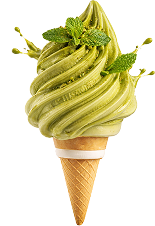
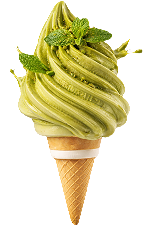
Enhance layout and responsiveness of IceGrid and IcePreview components. Change image of lavendel and matcha ice cream

diff --git a/src/components/ice/IcePreview.jsx b/src/components/ice/IcePreview.jsx
@@ -3,14 +3,14 @@ import iceData from "../../data/iceData.json";
 
 function IcePreview() {
     return (
-        <section className="flex flex-col items-center gap-8 mb-20">
+        <section 
+         className="flex flex-col items-center gap-8 mb-20 w-full max-w-7xl mx-auto px-6 "
+        >
             <h2 className="font-headline text-3xl text-[#CC1E36] text-center ">
                 Soft Serve, Hard Crush</h2>
             <div 
             className="
-             grid grid-cols-3
-             justify-evenly items-center
-             py-6 px-10 w-full min-h-110 max-w-7xl
+             grid grid-cols-1 md:grid-cols-3 gap-6 w-full py-6
              bg-[#f5e7e4] rounded-4xl shadow-[4px_4px_4px_rgba(0,0,0,0.25)]">
 
                 {iceData
@@ -21,11 +21,11 @@ function IcePreview() {
                      key={ice.slug} 
                      className="flex flex-col items-center gap-2"
                     >
-                        <div className="w-full h-80 flex items-center justify-center">
-                            <img src={ice.image} alt="" className="h-72 object-contain hover:scale-110
+                        <div className="w-full sm:h-48 md:h-80 flex items-center justify-center">
+                            <img src={ice.image} alt="" className="h-full object-contain hover:scale-110
                             transition-transform duration-300" />
                         </div>
-                        <h4 className="text-xl tracking-widest text-gray-700">{ice.name}</h4>
+                        <h4 className="sm:text-md md:text-xl tracking-widest text-gray-700">{ice.name}</h4>
                     </div>
                 ))}
             </div>

diff --git a/src/components/ice/IceGrid.jsx b/src/components/ice/IceGrid.jsx
@@ -4,7 +4,7 @@ function IceGrid({ iceData }) {
 
   return (
     <section 
-     className="grid grid-cols-1 md:grid-cols-2 lg:grid-cols-3 gap-12"
+     className="grid grid-cols-1 md:grid-cols-2 lg:grid-cols-3 gap-12 justify-items-center"
      >
         {iceData.map((ice)=> (
             <IceCard 
